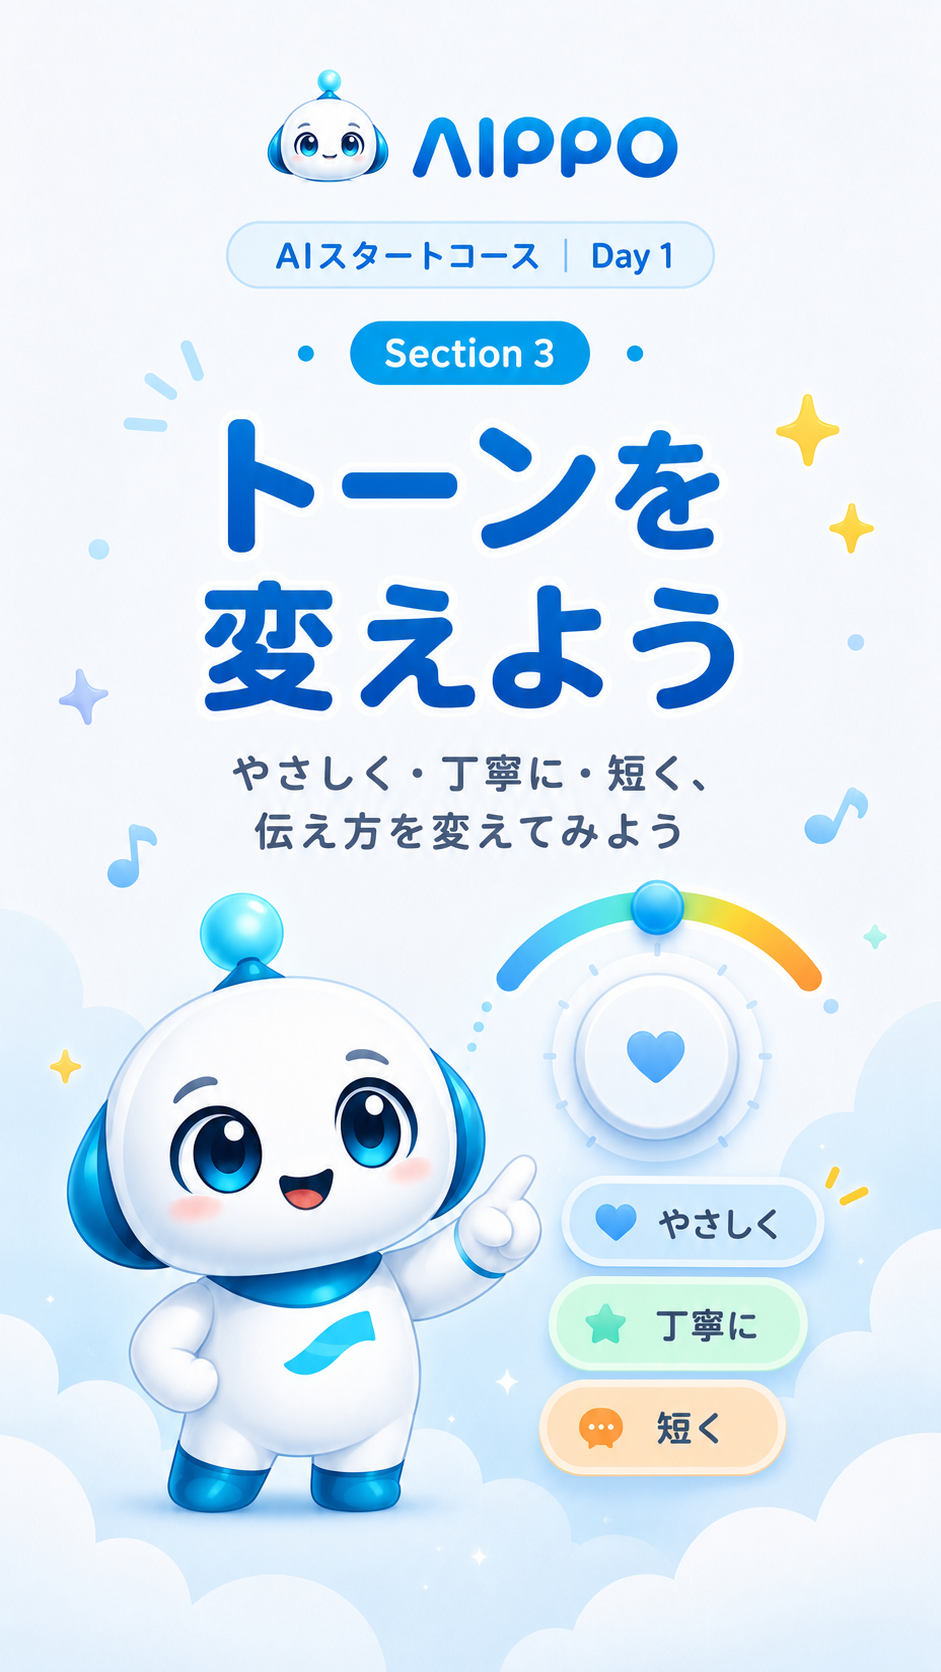
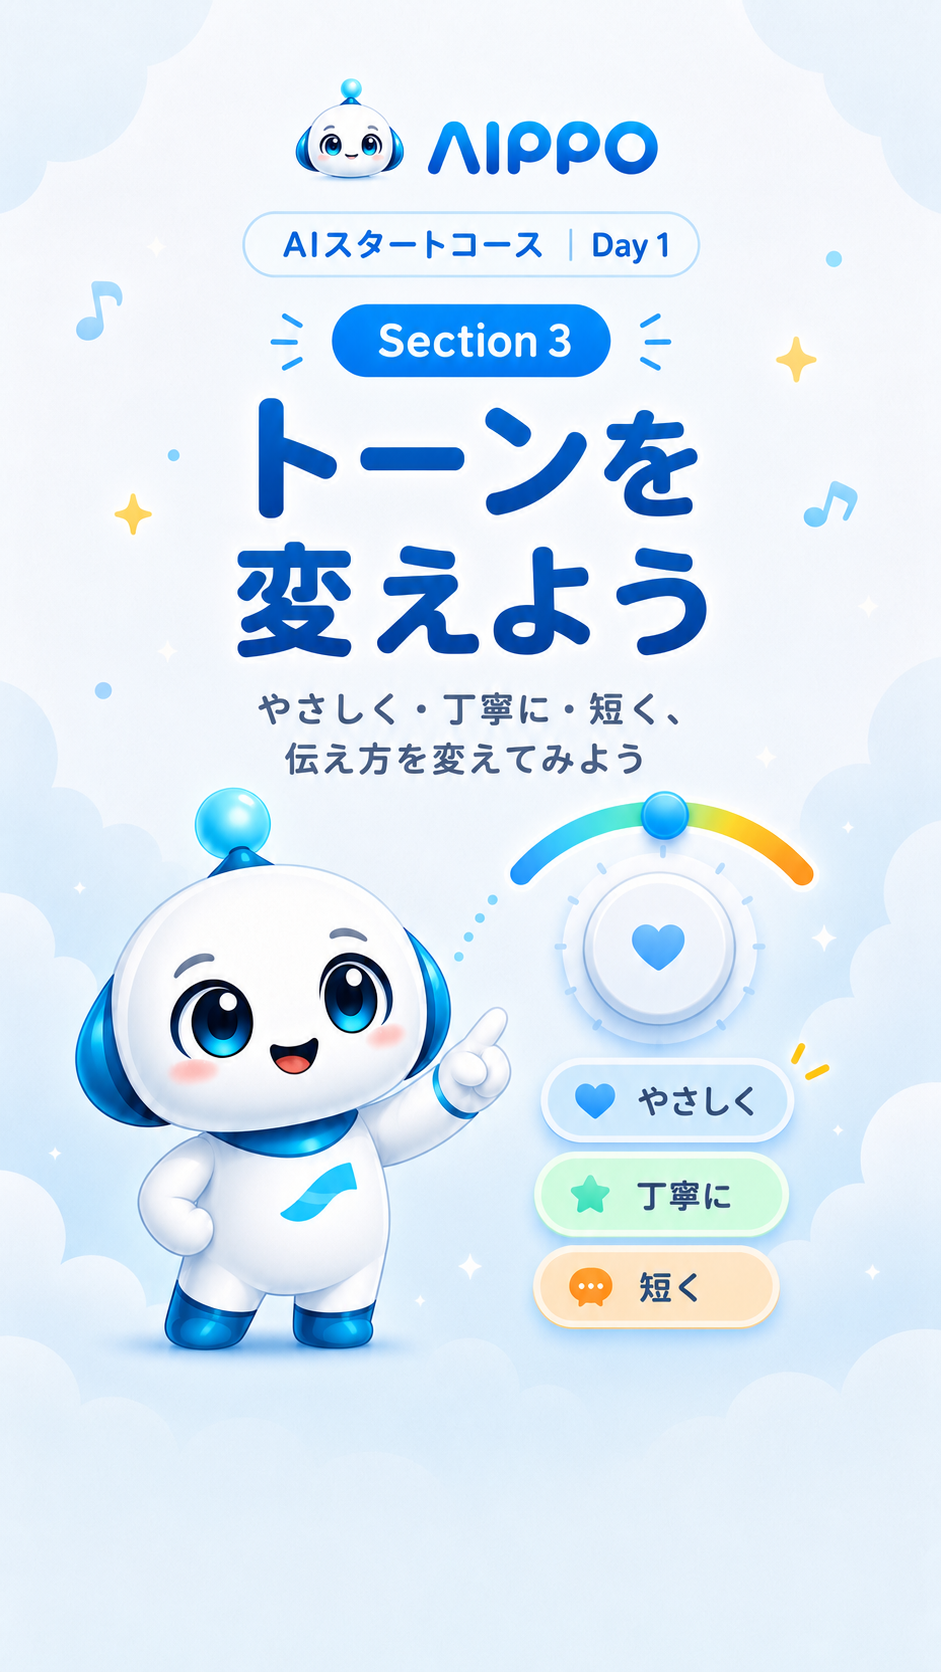
章扉の絵を、下に「つづける」の場所があるものへ差し替える
前の絵は下の余白が 5.7〜9.4% しかなく、Po の足と主モチーフが絵の
88〜90% まで下りていた。そこへ「つづける」を重ねるので、どう小さく
しても足に食い込む——いちばん低い持ち方（402×660）では絵の下 10.3%
が切れるぶん、Po が画面の最下部まで来て、避けようがなかった。

新しい4枚は、下に 18〜29% の雲が空けてある。

    下の余白   章① 5.7→18.2%  章② 6.5→29.1%
               章③ 9.4→19.1%  章④ 9.3→19.6%

    CTAが覆う  章① 5.8→0.0%   章② 6.3→0.0%
               章③ 0.6→0.0%   章④ 8.4→0.0%

いちばん低い持ち方でも、残るのは章① 0.2% と章③ 0.8% だけになった。

章②は中身も変わっている。相手カードが 上司／友だち →
AI初心者／くわしい人、副題が「誰に伝えるかで、文章は変わる」→
「『誰向けか』を伝えると、説明の仕方が変わる」。

これは教材との食い違いも直している。real_audience は「共通の
AUDIENCE_OPTIONS（上司・同僚・顧客）は使わない。役職ではなく
どれだけ知っているかで分ける」として その分野を知らない人・
新入社員・お客様・くわしい人 を出しているのに、絵だけが役職を
見せていた。新しい絵は add_condition の「AI初心者向けに」とも
そろう。読み上げの1文（alt）を catalog.ts と seed_catalog.json の
両方で合わせた。

横は狭いままで、章②の題までの余白が 左 3.9% / 右 4.7%。細長い
持ち方（402×874）では左右を 7.0% 切るので、題が端に触れる。
切る量は画面の比だけで決まるので、直すなら絵の側に余白が要る。

Claude-Session: https://claude.ai/code/session_01UWDfE5KWwE2qpUypBSESMs

diff --git a/frontend/e2e/sectionTransition.spec.ts b/frontend/e2e/sectionTransition.spec.ts
@@ -179,13 +179,13 @@ test.describe("段が変わったことを、1枚で言う", () => {
       決まる。ここは上限を置いて、それを超えたら気づけるようにする
       だけ。
 
-      題までの余白を測り直すと、思っていたより狭い。
+      題までの横の余白を測るとこうなっている。
 
-          章①左 6.4% 右 6.8% ／ 章②左 5.1% 右 5.0%
-          章③左 6.4% 右 7.2% ／ 章④左 7.2% 右 4.6%
+          章①左 7.8% 右 6.1% ／ 章②左 3.9% 右 4.7%
+          章③左10.1% 右 9.0% ／ 章④左 6.3% 右 7.7%
 
-      いちばん狭いのは章④の右 4.6%。細長い持ち方（402×874）では
-      左右を 7.0% 切るので、**章②と章④は題の端が欠ける**。
+      いちばん狭いのは章②の左 3.9%。細長い持ち方（402×874）では
+      左右を 7.0% 切るので、**章②は題の端が欠ける**。
       端まで敷く（余白を作らない）ことと引き換えになっている。
       直すなら絵の側に横の余白を足すしかない。
     */
@@ -258,10 +258,13 @@ test.describe("段が変わったことを、1枚で言う", () => {
     /*
       Po を隠さない。
 
-      4枚を測ると、Po の足と主モチーフは**絵の 88〜90% まで**下りて
-      いて、その下は雲と影しかない。だからボタンの上端が絵の何%に
-      当たるかを見る——`object-cover` で切ってあるので、画面の座標
-      ではなく**絵そのものの座標**に直してから測る。
+      絵の側が、下に 18〜29% の雲を空けてくれている（章②が 29.1% で
+      いちばん広く、章①が 18.2% でいちばん狭い）。ボタンはその中に
+      収まっていればよい。
+
+      だからボタンの上端が絵の何%に当たるかを見る——`object-cover`
+      で切ってあるので、画面の座標ではなく**絵そのものの座標**に
+      直してから測る。
     */
     const top = await page.evaluate(() => {
       const cover = document.querySelector<HTMLElement>(

diff --git a/frontend/src/components/course/SectionTransition.tsx b/frontend/src/components/course/SectionTransition.tsx
@@ -41,10 +41,13 @@
  * 切ってよい量は、絵が持っている余白まで。4枚を測るとこうなっている。
  *
  *     濃い要素（題・ロゴ・カード）までの余白
- *     上 5.4% / 下 5.7% / 左 5.1% / 右 4.6%   ← 4枚の最小
+ *     上 4.7% / 下 18.2% / 左 3.9% / 右 4.7%   ← 4枚の最小
+ *
+ * 下が広いのは、**「つづける」を置く場所として絵の側に空けてある**から
+ * （前の絵は 5.7% しかなく、ボタンがポーの足に食い込んでいた）。
  *
  * 左右は寄せようがない（切る量は画面の比だけで決まる）。細長い持ち方
- * （402×874）では 7.0% 切るので、**章②と章④は題の端が欠ける**。
+ * （402×874）では 7.0% 切るので、**章②は題の端が欠ける**（左 3.9%）。
  * 端まで敷くことと引き換えになっている——直すなら絵の側に横の余白を
  * 足すしかない。
  *
@@ -98,9 +101,11 @@ const CTA = {
   /*
     下から 16px（＋安全領域）。
 
-    4枚を測ると、Po の足と主モチーフは**絵の 88〜90% まで下りている**。
-    高さ48・下16 にすると CTA は 90.6%〜97.6% に入り、覆うのは
-    雲と影だけになる（覆う面積は 9.2/7.4/10.4/10.4% → 5.8/6.3/0.6/8.4%）。
+    絵の側が、下に 18〜29% の雲を空けてくれている。高さ48・下16 だと
+    CTA は絵の 89.2%〜96.1%（393×727）に入り、**Po にも主モチーフにも
+    かからない**——4枚とも覆う面積は 0.0%。いちばん低い持ち方
+    （402×660）でだけ 0.2%（章①）と 0.8%（章③）が残る。
+
     これ以上は下げない——iPhone のホームバーに近づく。
   */
   bottom: "bottom-[calc(1rem+env(safe-area-inset-bottom))]",

diff --git a/frontend/tests/sectionTransition.test.tsx b/frontend/tests/sectionTransition.test.tsx
@@ -238,7 +238,8 @@ describe("章扉の画面", () => {
       1本渡っている状態で、章の絵より先に目に入る。
 
       章扉で見せたいのは絵のほう。ボタンは「押せる場所はここ」と
-      言うだけの、絵の中の一部品でよい。
+      言うだけの、絵の中の一部品でよい（絵の側も、下に 18〜29% の
+      雲を空けて場所を用意している）。
 
         小さく … 幅 78%（前は 90%）／高さ 48px（前は 56px）
         透かす … 90%。ただし白文字が読めるところまで

diff --git a/frontend/src/course/catalog.ts b/frontend/src/course/catalog.ts
@@ -361,7 +361,7 @@ const LESSON_1: Lesson = {
         poMessage: "誰が読むかを、足してみよう！",
         image: {
           src: "/assets/teaching/day1_section_02.webp",
-          alt: "ポーが、上司と友だちの2枚のカードを指し示している絵。",
+          alt: "ポーが、AI初心者とくわしい人の2枚のカードを指し示している絵。",
           width: 941,
           height: 1672,
         },
